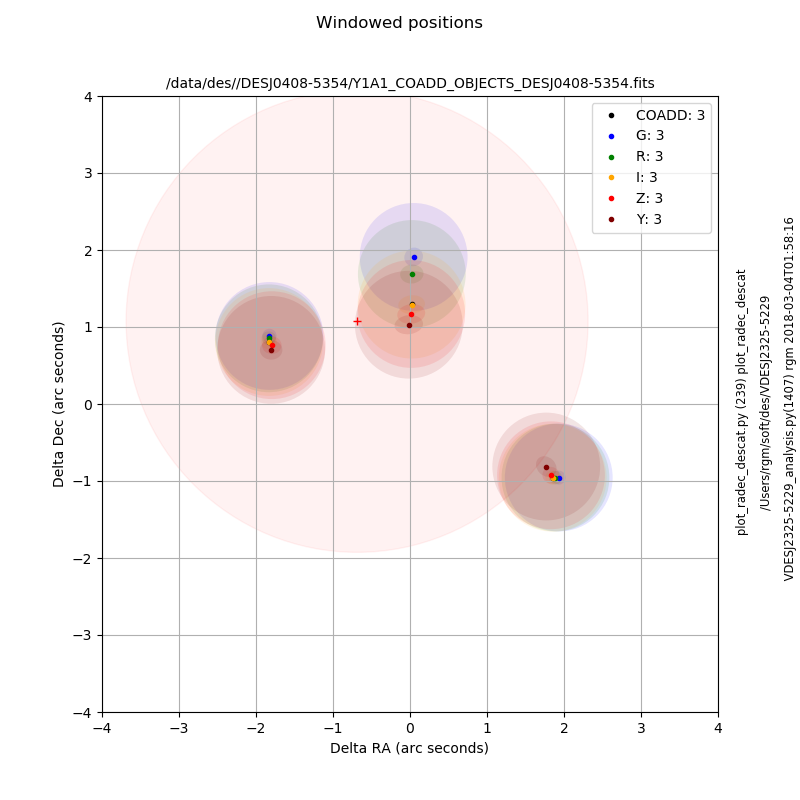
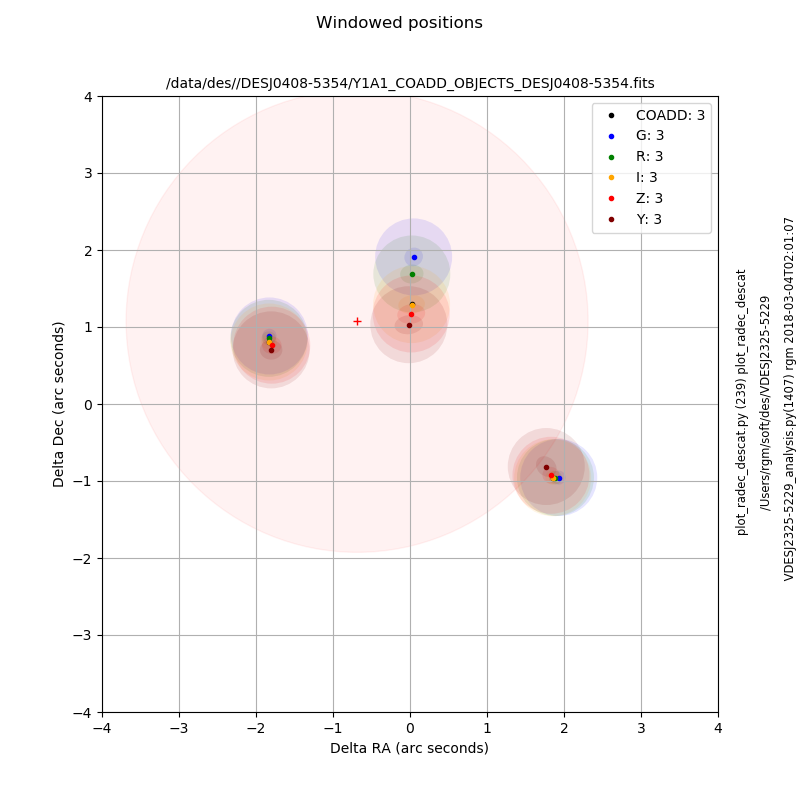
modified:   DESJ0408-5354_COADD_radec.png 	modified:   VDESJ2325-5229_COADD_radec.png 	modified:   plot_radec_descat.py

diff --git a/VDESJ2325-5229/plot_radec_descat.py b/VDESJ2325-5229/plot_radec_descat.py
@@ -173,7 +173,7 @@ def plot_radec_descat(data=None,
         alpha=0.1
         i =-1
 
-        radius = 0.7
+        radius = 0.5
         for id in xdata:
             i = i + 1
 
